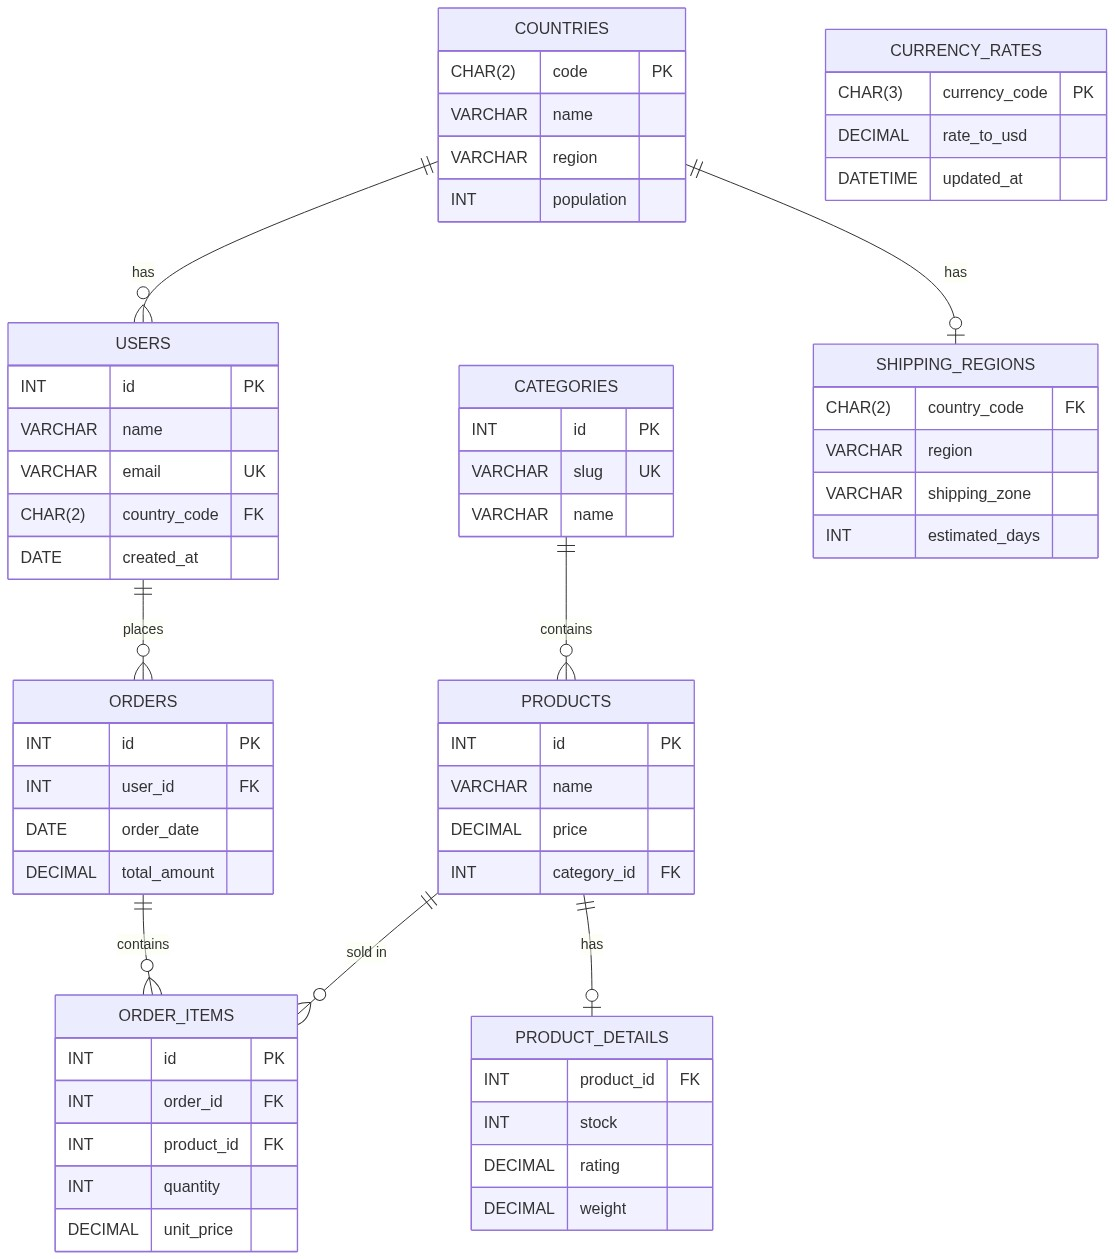
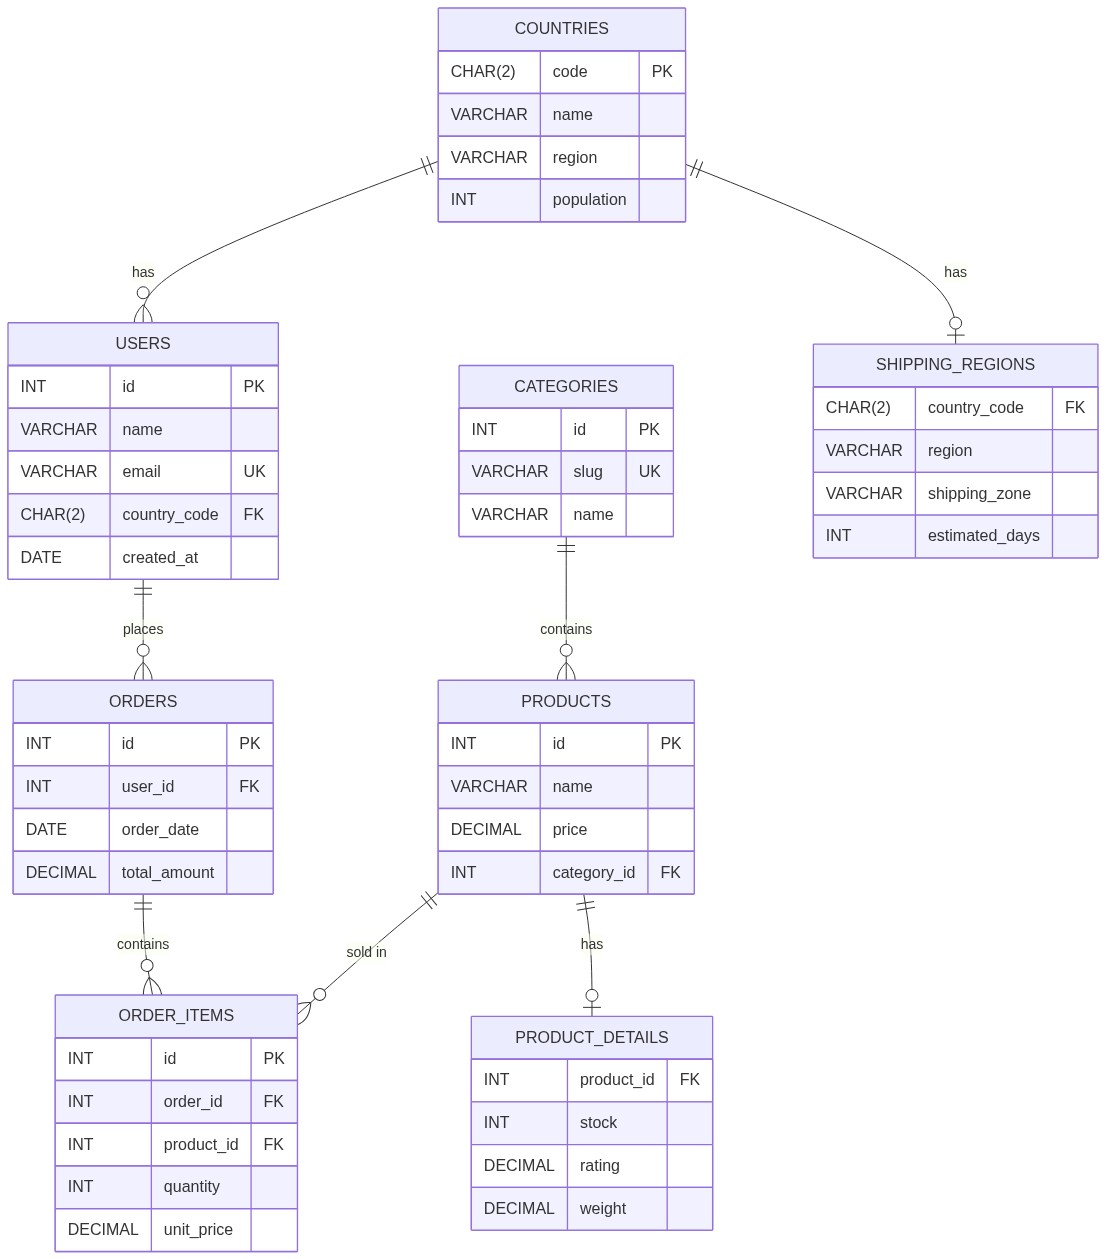
refactor: rename variables in run_all.py, fix schema diagram accuracy
- Renamed all variables to descriptive names (DB -> MYSQL_CONNECTION, etc.)
- Removed currency_rates from diagram (not in schema yet)
- Fixed types in diagram to match 01_schema.sql (DECIMAL not FLOAT, DATE not TIMESTAMP)
- Regenerated schema_diagram.png and schema.jpeg from corrected .mmd

diff --git a/run_all.py b/run_all.py
@@ -13,20 +13,20 @@ Uso: pip install mysql-connector-python requests && python run_all.py
 import csv, os, sys, requests, mysql.connector
 
 # Credenciales de conexion a MySQL (el container de Docker)
-DB = {"host": "localhost", "port": 3306, "user": "root", "password": "root"}
+MYSQL_CONNECTION = {"host": "localhost", "port": 3306, "user": "root", "password": "root"}
 
 # Nombre de la base de datos que vamos a crear
-DB_NAME = "datajam"
+DATABASE_NAME = "datajam"
 
 # Ruta a la carpeta donde estan los archivos CSV
-DATA_DIR = os.path.join(os.path.dirname(__file__), "dataset_group_product_details")
+DATASET_DIRECTORY = os.path.join(os.path.dirname(__file__), "dataset_group_product_details")
 
 # URL base de la API de DummyJSON (de donde sacamos stock, rating y weight)
-API_URL = "https://dummyjson.com/products"
+DUMMYJSON_API_URL = "https://dummyjson.com/products"
 
 # Mapa de tablas: cada tupla dice (nombre_tabla, archivo_csv, columnas)
 # Esto le dice al Phase 2 que CSV va a cada tabla y con que columnas
-TABLES_CSV = [
+TABLE_CSV_MAPPING = [
     ("countries",        "countries.csv",        ["code", "name", "region", "population"]),
     ("categories",       "categories.csv",       ["id", "slug", "name"]),
     ("users",            "users.csv",            ["id", "name", "email", "country_code", "created_at"]),
@@ -44,64 +44,64 @@ def run():
     # sql/01_schema.sql y ejecuta cada CREATE TABLE
     # ==========================================================
     print("\n[Phase 1] Creating database and schema...")
-    conn = mysql.connector.connect(**DB)     # Conecta a MySQL sin seleccionar DB
-    cur = conn.cursor()
-    cur.execute(f"CREATE DATABASE IF NOT EXISTS {DB_NAME}")  # Crea la DB si no existe
-    cur.execute(f"USE {DB_NAME}")                            # Selecciona la DB
+    connection = mysql.connector.connect(**MYSQL_CONNECTION)     # Conecta a MySQL sin seleccionar DB
+    cursor = connection.cursor()
+    cursor.execute(f"CREATE DATABASE IF NOT EXISTS {DATABASE_NAME}")  # Crea la DB si no existe
+    cursor.execute(f"USE {DATABASE_NAME}")                            # Selecciona la DB
 
     # Lee el archivo SQL con los CREATE TABLE
-    sql_path = os.path.join(os.path.dirname(__file__), "sql", "01_schema.sql")
-    with open(sql_path, "r", encoding="utf-8") as f:
-        sql = f.read()
+    schema_path = os.path.join(os.path.dirname(__file__), "sql", "01_schema.sql")
+    with open(schema_path, "r", encoding="utf-8") as schema_file:
+        schema_sql = schema_file.read()
 
     # Elimina lineas de comentarios (--) para que no interfieran
-    clean = "\n".join(l for l in sql.splitlines() if not l.strip().startswith("--"))
+    clean_sql = "\n".join(line for line in schema_sql.splitlines() if not line.strip().startswith("--"))
 
     # Separa cada sentencia SQL por el ; y la ejecuta una por una
-    for stmt in clean.split(";"):
-        stmt = stmt.strip()
-        if stmt:
+    for statement in clean_sql.split(";"):
+        statement = statement.strip()
+        if statement:
             try:
-                cur.execute(stmt)
+                cursor.execute(statement)
             except mysql.connector.Error:
                 pass  # Si la tabla ya existe, no falla
-    conn.commit()
-    cur.close()
-    conn.close()
+    connection.commit()
+    cursor.close()
+    connection.close()
     print("  [OK] Schema created")
 
     # ==========================================================
     # PHASE 2: Cargar los datos de los CSVs en MySQL
     # Primero vacia todas las tablas (TRUNCATE) para poder
     # re-ejecutar sin errores de duplicados.
-    # Luego recorre el mapa TABLES_CSV y carga cada archivo.
+    # Luego recorre el mapa TABLE_CSV_MAPPING y carga cada archivo.
     # ==========================================================
     print("\n[Phase 2] Loading CSVs...")
-    conn = mysql.connector.connect(**DB, database=DB_NAME)
-    cur = conn.cursor()
+    connection = mysql.connector.connect(**MYSQL_CONNECTION, database=DATABASE_NAME)
+    cursor = connection.cursor()
 
     # Desactiva validacion de Foreign Keys para poder cargar en cualquier orden
-    cur.execute("SET FOREIGN_KEY_CHECKS = 0")
+    cursor.execute("SET FOREIGN_KEY_CHECKS = 0")
 
     # Vacia todas las tablas antes de cargar (permite re-ejecutar el script)
-    all_tables = ["order_items","orders","product_details","products","shipping_regions","users","categories","countries"]
-    for t in all_tables:
-        cur.execute(f"TRUNCATE TABLE {t}")
+    tables_to_truncate = ["order_items","orders","product_details","products","shipping_regions","users","categories","countries"]
+    for table_name in tables_to_truncate:
+        cursor.execute(f"TRUNCATE TABLE {table_name}")
 
     # Recorre cada tabla del mapa y carga su CSV correspondiente
-    for table, filename, cols in TABLES_CSV:
+    for table_name, csv_filename, columns in TABLE_CSV_MAPPING:
         # Lee el CSV y convierte cada fila en una tupla con las columnas necesarias
-        with open(os.path.join(DATA_DIR, filename), "r", encoding="utf-8") as f:
-            rows = [tuple(r[c] for c in cols) for r in csv.DictReader(f)]
+        with open(os.path.join(DATASET_DIRECTORY, csv_filename), "r", encoding="utf-8") as csv_file:
+            rows = [tuple(row[col] for col in columns) for row in csv.DictReader(csv_file)]
 
         # Arma el INSERT con placeholders (%s) y ejecuta todas las filas de golpe
-        placeholders = ",".join(["%s"] * len(cols))
-        cur.executemany(f"INSERT INTO {table} ({','.join(cols)}) VALUES ({placeholders})", rows)
-        print(f"  [OK] {table}: {len(rows)} rows")
+        placeholders = ",".join(["%s"] * len(columns))
+        cursor.executemany(f"INSERT INTO {table_name} ({','.join(columns)}) VALUES ({placeholders})", rows)
+        print(f"  [OK] {table_name}: {len(rows)} rows")
 
     # Reactiva la validacion de Foreign Keys
-    cur.execute("SET FOREIGN_KEY_CHECKS = 1")
-    conn.commit()
+    cursor.execute("SET FOREIGN_KEY_CHECKS = 1")
+    connection.commit()
 
     # ==========================================================
     # PHASE 3: Consumir la API de DummyJSON para llenar product_details
@@ -112,30 +112,30 @@ def run():
     print("\n[Phase 3] Fetching product_details from DummyJSON...")
 
     # Paginacion: traemos de a 30 productos hasta cubrir el total
-    products, skip = [], 0
+    api_products, skip_count = [], 0
     while True:
         # Pedimos solo los campos que necesitamos: id, stock, rating, weight
-        data = requests.get(f"{API_URL}?limit=30&skip={skip}&select=id,stock,rating,weight", timeout=30).json()
-        products.extend(data["products"])  # Agregamos los productos al array
-        skip += 30                         # Avanzamos a la siguiente pagina
-        if skip >= data["total"]:          # Si ya trajimos todos, paramos
+        response = requests.get(f"{DUMMYJSON_API_URL}?limit=30&skip={skip_count}&select=id,stock,rating,weight", timeout=30).json()
+        api_products.extend(response["products"])  # Agregamos los productos al array
+        skip_count += 30                            # Avanzamos a la siguiente pagina
+        if skip_count >= response["total"]:         # Si ya trajimos todos, paramos
             break
-    print(f"  [OK] {len(products)} products fetched from API")
+    print(f"  [OK] {len(api_products)} products fetched from API")
 
     # Traemos los IDs de productos que existen en nuestra DB
-    cur.execute("SELECT id FROM products")
-    local_ids = {r[0] for r in cur.fetchall()}  # Set de IDs locales: {1, 2, 3, ..., 194}
+    cursor.execute("SELECT id FROM products")
+    local_product_ids = {row[0] for row in cursor.fetchall()}  # Set de IDs locales: {1, 2, 3, ..., 194}
 
     # SQL con ON DUPLICATE KEY UPDATE: si ya existe, actualiza en vez de fallar
-    sql = """INSERT INTO product_details (product_id, stock, rating, weight)
+    upsert_sql = """INSERT INTO product_details (product_id, stock, rating, weight)
              VALUES (%s,%s,%s,%s)
              ON DUPLICATE KEY UPDATE stock=VALUES(stock), rating=VALUES(rating), weight=VALUES(weight)"""
 
     # Solo insertamos productos que existen en NUESTRO catalogo
-    for p in products:
-        if p["id"] in local_ids:
-            cur.execute(sql, (p["id"], p.get("stock", 0), p.get("rating", 0), p.get("weight", 0)))
-    conn.commit()
+    for product in api_products:
+        if product["id"] in local_product_ids:
+            cursor.execute(upsert_sql, (product["id"], product.get("stock", 0), product.get("rating", 0), product.get("weight", 0)))
+    connection.commit()
     print(f"  [OK] product_details populated")
 
     # ==========================================================
@@ -143,13 +143,13 @@ def run():
     # Si alguna dice [EMPTY] es que algo fallo
     # ==========================================================
     print("\n[Verification]")
-    for t in ["countries","categories","users","products","product_details","orders","order_items","shipping_regions"]:
-        cur.execute(f"SELECT COUNT(*) FROM {t}")
-        n = cur.fetchone()[0]
-        print(f"  {'[OK]' if n > 0 else '[EMPTY]'} {t}: {n} rows")
+    for table_name in ["countries","categories","users","products","product_details","orders","order_items","shipping_regions"]:
+        cursor.execute(f"SELECT COUNT(*) FROM {table_name}")
+        row_count = cursor.fetchone()[0]
+        print(f"  {'[OK]' if row_count > 0 else '[EMPTY]'} {table_name}: {row_count} rows")
 
-    cur.close()
-    conn.close()
+    cursor.close()
+    connection.close()
     print("\nALL DONE - System 100% operational.\n")
 
 
